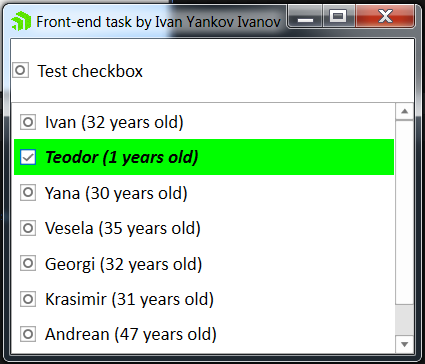
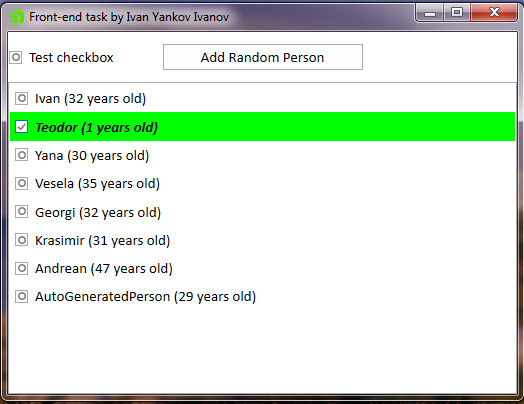
Updated to v1.1 Added an option to add a random Person at runtime.

diff --git a/MainWindow.xaml b/MainWindow.xaml
@@ -14,6 +14,11 @@
             <RowDefinition />
         </Grid.RowDefinitions>
         <CheckBox x:Name="testCheckBox" IsThreeState="True">Test checkbox</CheckBox>
+        <Button Margin="50,0"
+                Width="200"
+                Height="20"
+                Content="Add Random Person"
+                Command="{Binding AddRandomPersonCommand}" />
         <telerik:RadListBox Grid.Row="1"
                             Style="{StaticResource CheckedRadListBoxStyle}"
                             ItemsSource="{Binding CheckedRadListBoxItemsSource}"

diff --git a/Commands/RelayCommand.cs b/Commands/RelayCommand.cs
@@ -1,0 +1,87 @@
+// <copyright file="RelayCommand.cs" company="Progress">
+//     Copyright (c) Ivan Yankov. All rights reserved.
+// </copyright>
+// <author>Ivan Yankov</author>
+namespace FrontEndTask.Commands
+{
+    using System;
+    using System.Windows.Input;
+
+    /// <summary>
+    /// A simple execute delegate.
+    /// </summary>
+    /// <param name="parameter">The parameter to the execute delegate.</param>
+    public delegate void ExecuteDelegate(object parameter);
+
+    /// <summary>
+    /// A simple can execute delegate.
+    /// </summary>
+    /// <param name="parameter">The parameter to the can execute delegate.</param>
+    /// <returns>Returns true, if the ICommand can be executed.</returns>
+    public delegate bool CanExecuteDelegate(object parameter);
+
+    /// <summary>
+    /// A simple class, which implements ICommand interface.
+    /// </summary>
+    public class RelayCommand : ICommand
+    {
+        /// <summary>
+        /// execute field.
+        /// </summary>
+        private ExecuteDelegate execute;
+        
+        /// <summary>
+        /// canExecute field.
+        /// </summary>
+        private CanExecuteDelegate canExecute;
+
+        /// <summary>
+        /// Initializes a new instance of the <see cref="RelayCommand" /> class.
+        /// </summary>
+        /// <param name="execute">A delegate, which will be executed along with the ICommand itself.</param>
+        public RelayCommand(ExecuteDelegate execute)
+            : this(execute, null)
+        {
+        }
+
+        /// <summary>
+        /// Initializes a new instance of the <see cref="RelayCommand" /> class.
+        /// </summary>
+        /// <param name="execute">A delegate, which will be executed along with the ICommand itself.</param>
+        /// <param name="canExecute">A CanExecuted delegate.</param>
+        public RelayCommand(ExecuteDelegate execute, CanExecuteDelegate canExecute)
+        {
+            this.execute = execute;
+            this.canExecute = canExecute;
+        }
+
+        /// <summary>
+        /// Fired, when Can execute is changed.
+        /// </summary>
+        public event EventHandler CanExecuteChanged;
+
+        /// <summary>
+        /// Checks whether the RelayCommand can be executed.
+        /// </summary>
+        /// <param name="parameter">A parameter of any type.</param>
+        /// <returns>Returns true, when the command can be executed.</returns>
+        public bool CanExecute(object parameter)
+        {
+            if (this.canExecute == null)
+            {
+                return true;
+            }
+
+            return this.canExecute(parameter);
+        }
+
+        /// <summary>
+        /// Executes the RelayCommand with given parameter.
+        /// </summary>
+        /// <param name="parameter">A parameter of any type.</param>
+        public void Execute(object parameter)
+        {
+            this.execute(parameter);
+        }
+    }
+}

diff --git a/MainWindow.xaml.cs b/MainWindow.xaml.cs
@@ -5,8 +5,12 @@
 
 namespace FrontEndTask
 {
+    using System;
     using System.Collections.Generic;
+    using System.Collections.ObjectModel;
     using System.Windows;
+    using System.Windows.Input;
+    using FrontEndTask.Commands;
     using FrontEndTask.Common;
     using FrontEndTask.Models;
 
@@ -26,6 +30,11 @@ namespace FrontEndTask
             new PropertyMetadata(null));
 
         /// <summary>
+        /// Holds the private command for adding random persons.
+        /// </summary>
+        private ICommand addRandomPersonCommand;
+        
+        /// <summary>
         /// Initializes a new instance of the <see cref="MainWindow" /> class.
         /// </summary>
         public MainWindow()
@@ -42,6 +51,27 @@ namespace FrontEndTask
             get { return (IEnumerable<object>)this.GetValue(CheckedRadListBoxItemsSourceProperty); }
             set { this.SetValue(CheckedRadListBoxItemsSourceProperty, value); }
         }
+        
+        /// <summary>
+        /// Gets or sets the command, which adds a random Person to the collection.
+        /// </summary>
+        public ICommand AddRandomPersonCommand
+        {
+            get
+            {
+                if (this.addRandomPersonCommand == null)
+                {
+                    this.addRandomPersonCommand = new RelayCommand(this.OnAddRandomPersonRequested);
+                }
+
+                return this.addRandomPersonCommand;
+            }
+
+            set
+            {
+                this.addRandomPersonCommand = value;
+            }
+        }
 
         /// <summary>
         /// Creates a default list of Persons.
@@ -49,7 +79,7 @@ namespace FrontEndTask
         /// <returns>The default Persons list.</returns>
         private IEnumerable<Person> CreateDefaultDataItems()
         {
-            var dataItems = new List<Person>()
+            var dataItems = new ObservableCollection<Person>()
             {
                 new Person("Ivan", AgeHelper.CalculatePersonAge(1986)),
                 new Person("Teodor", AgeHelper.CalculatePersonAge(2017)),
@@ -61,6 +91,22 @@ namespace FrontEndTask
             };
 
             return dataItems;
+        }
+        
+        /// <summary>
+        /// Executed, when a request to the AddRandomPersonCommand is made.
+        /// </summary>
+        /// <param name="parameter">A parameter passed from XAML.</param>
+        private void OnAddRandomPersonRequested(object parameter)
+        {
+            var persons = this.CheckedRadListBoxItemsSource as ObservableCollection<Person>;
+            if (persons != null)
+            {
+                var random = new Random();
+                var age = Convert.ToByte(random.Next(0, Person.MaxAllowedAge));
+                var person = new Person("AutoGeneratedPerson", age);
+                persons.Add(person);
+            }
         }
     }
 }

diff --git a/Properties/AssemblyInfo.cs b/Properties/AssemblyInfo.cs
@@ -52,5 +52,5 @@ using System.Windows;
 // You can specify all the values or you can default the Build and Revision Numbers 
 // by using the '*' as shown below:
 // [assembly: AssemblyVersion("1.0.*")]
-[assembly: AssemblyVersion("1.0.0.0")]
-[assembly: AssemblyFileVersion("1.0.0.0")]
+[assembly: AssemblyVersion("1.1.0.0")]
+[assembly: AssemblyFileVersion("1.1.0.0")]
